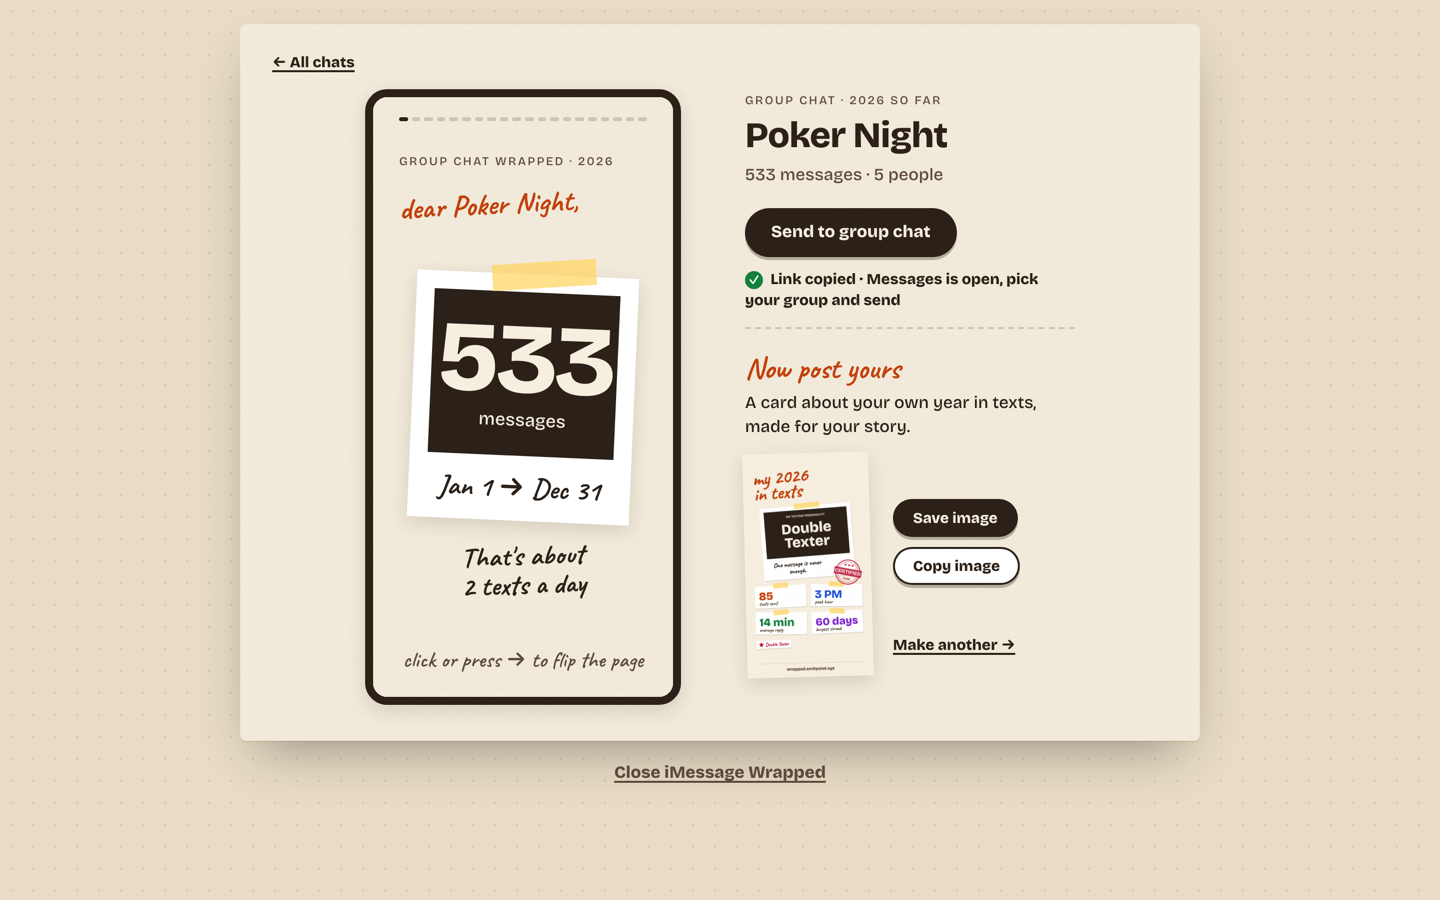
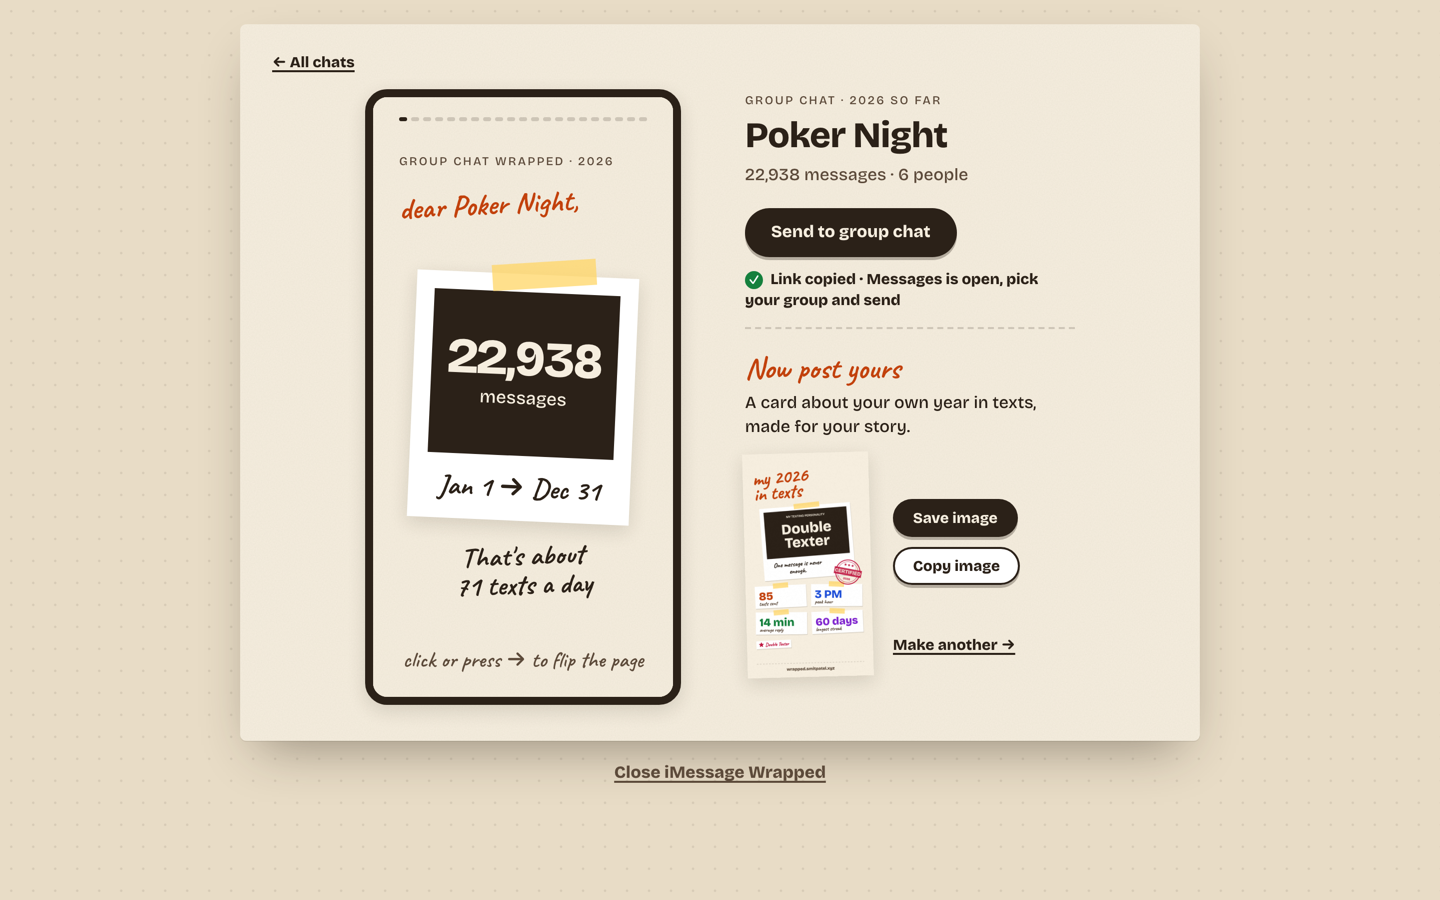
docs: demo GIF and screenshot for the busy demo year

Changed region(s): [[0.2812, 0.3422, 0.4375, 0.4978], [0.5, 0.1867, 0.6875, 0.2178], [0.3125, 0.6222, 0.4062, 0.6844]]

diff --git a/README.md b/README.md
@@ -31,7 +31,7 @@
 
 <p align="center">
   <a href="https://wrapped.smitpatel.xyz/#demo">
-    <img src="docs/images/demo.gif" width="320" alt="A phone tapping through the wrap of a made-up group chat called Poker Night: 533 messages on a taped polaroid with 'That's about 2 texts a day', a 'Who talked the most' bar chart led by Alex Chen at 27.8%, the group's top words and phrases with each person's signature word, three greatest-hit quotes, one opened to show the conversation around it with the quote lifted out, a stamped Main Character award, and the 'our 2026 in texts' summary card to save.">
+    <img src="docs/images/demo.gif" width="320" alt="A phone tapping through the wrap of a made-up group chat called Poker Night: 22,938 messages on a taped polaroid with 'That's about 71 texts a day', a 'Who talked the most' bar chart led by Riley Park at 35.3%, everyone's texting style (Spray n Pray, One and Done, Nonchalant, Paragraph Texter), three greatest-hit quotes, one opened to show the conversation around Alex's 'engrave sam's name on it now, save time' with the quote lifted out, a stamped Comedian award for Sam Rivera, and the 'our 2026 in texts' summary card to save.">
   </a>
   <br>
   <sub>Poker Night, a made-up group chat, tapped through on a phone. <a href="https://wrapped.smitpatel.xyz/#demo">Open the demo</a>.</sub>
@@ -98,7 +98,7 @@ and is only used when your chats back it up (for example, friends greet you by i
 it keeps "You".
 
 <p align="center">
-  <img src="docs/images/send.png" width="720" alt="The wrap page for Poker Night: a phone-sized preview of the wrap on the left, open on its first page. Beside it, 'Group chat · 2026 so far', the title, '533 messages · 5 people', the Send to group chat button with '✓ Link copied · Messages is open, pick your group and send' under it, then 'Now post yours' with a small share card, Save image, Copy image and Make another.">
+  <img src="docs/images/send.png" width="720" alt="The wrap page for Poker Night: a phone-sized preview of the wrap on the left, open on its first page. Beside it, 'Group chat · 2026 so far', the title, '22,938 messages · 6 people', the Send to group chat button with '✓ Link copied · Messages is open, pick your group and send' under it, then 'Now post yours' with a small share card, Save image, Copy image and Make another.">
   <br>
   <sub>The wrap page on your Mac, just after Send.</sub>
 </p>
